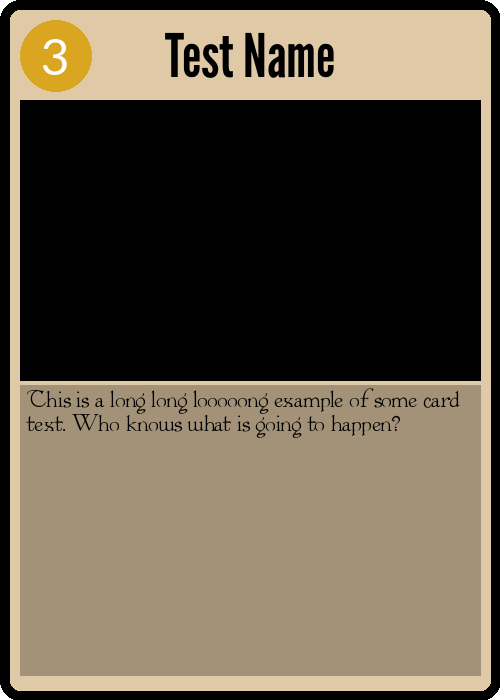
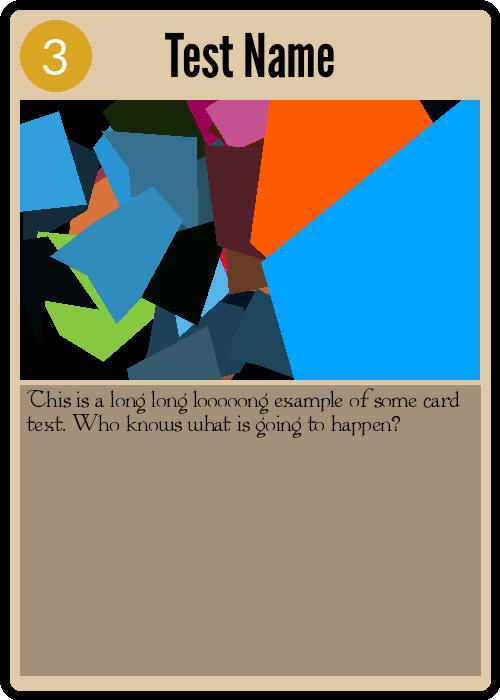
Update with fun color palettes

diff --git a/generate_cards.py b/generate_cards.py
@@ -9,6 +9,10 @@ import shutil
 import csv
 import dataclasses
 import textwrap
+import random
+import math
+import hashlib
+import colorsys
 
 CARDS_CSV_PATH = pathlib.Path("./cards.csv")
 assert CARDS_CSV_PATH.is_file()
@@ -57,17 +61,18 @@ BORDER_CORNER_RADIUS = 20
 # Title parameters
 TITLE_FONT = ImageFont.truetype(str(LEAGUE_GOTHIC_FONT_PATH), 60)
 TITLE_ANCHOR = "ma"  # Top Middle.
-TITLE_COORD = (CARD_WIDTH/2, CARD_MARGIN)
+TITLE_COORD = (int(CARD_WIDTH/2), CARD_MARGIN)
 TITLE_FONT_COLOR=BLACK
 
 # Cost parameters
-COST_WIDTH = CARD_WIDTH / 7
+COST_WIDTH = int(CARD_WIDTH / 7)
 COST_BACKGROUND_BB = [
   CARD_MARGIN, CARD_MARGIN, COST_WIDTH + CARD_MARGIN, COST_WIDTH + CARD_MARGIN]
 COST_BACKGROUND_COLOR = GOLD
 COST_FONT = ImageFont.truetype(str(LATO_FONT_PATH), 50)
 COST_ANCHOR = "mm"  # Middle
-COST_COORD = (CARD_MARGIN + COST_WIDTH / 2, CARD_MARGIN + COST_WIDTH / 2)
+COST_COORD = (int(CARD_MARGIN + COST_WIDTH / 2),
+              int(CARD_MARGIN + COST_WIDTH / 2))
 COST_FONT_COLOR = WHITE
 
 # Describes the max width of card contents
@@ -76,8 +81,8 @@ CONTENT_WIDTH = CARD_WIDTH - 2*CARD_MARGIN
 # Card image parameters
 # Width and height of card image
 CARD_IMAGE_WIDTH = CONTENT_WIDTH
-CARD_IMAGE_HEIGHT = CARD_HEIGHT * 0.4
-CARD_IMAGE_TOP = CARD_HEIGHT / 7
+CARD_IMAGE_HEIGHT = int(CARD_HEIGHT * 0.4)
+CARD_IMAGE_TOP = int(CARD_HEIGHT / 7)
 CARD_IMAGE_BOTTOM = CARD_IMAGE_TOP + CARD_IMAGE_HEIGHT
 CARD_IMAGE_BB = [
   CARD_MARGIN,
@@ -85,6 +90,16 @@ CARD_IMAGE_BB = [
   CARD_MARGIN + CONTENT_WIDTH,
   CARD_IMAGE_BOTTOM,
 ]
+
+RAND_SHAPE_MIN_RADIUS =  min(CARD_IMAGE_WIDTH, CARD_IMAGE_HEIGHT) * 0.1
+RAND_SHAPE_MAX_RADIUS =  min(CARD_IMAGE_WIDTH, CARD_IMAGE_HEIGHT) * 0.3
+# We want to generate between 3 sided and 10-sided shapes.
+RAND_MIN_POINT_GEN_STEP_RADS = 2 * math.pi / 20
+RAND_MAX_POINT_GEN_STEP_RADS = 2 * math.pi / 3
+RAND_MIN_SHAPES = 10
+RAND_MAX_SHAPES = 100
+
+
 
 # Body text
 BODY_TEXT_FONT = ImageFont.truetype(str(COLWELLA_FONT_PATH), 20)
@@ -101,8 +116,8 @@ BODY_TEXT_BG_COLOR = DARK_BEIGE
 # Estimate text size of body text
 BODY_TEXT_WIDTH = CONTENT_WIDTH - CARD_PADDING
 BODY_TEXT_HEIGHT = BODY_TEXT_BG_BOTTOM - BODY_TEXT_BG_TOP - CARD_PADDING
-BODY_TEXT_COORD = (CARD_MARGIN + CARD_PADDING * 3 / 2,
-              BODY_TEXT_BG_TOP + CARD_PADDING / 2)
+BODY_TEXT_COORD = (int(CARD_MARGIN + CARD_PADDING * 3 / 2),
+                   int(BODY_TEXT_BG_TOP + CARD_PADDING / 2))
 BODY_TEXT_ANCHOR = "la" # top left
 
 
@@ -124,9 +139,14 @@ def wrap_body_text(body_text:str)->str:
 class CardDesc:
   name: str
   cost: int
-  types: Set[str]
+  types: List[str]
   body_text: str
   flavor_text: str
+
+  def hash(self):
+    text = (f"{self.name}{self.cost}{self.types}{self.body_text}"
+            f"{self.flavor_text}")
+    return hashlib.md5(text.encode("utf-8")).hexdigest()
 
 EXPECTED_CSV_HEADER = set([
   "Name",
@@ -135,6 +155,90 @@ EXPECTED_CSV_HEADER = set([
   "Body Text",
   "Flavor Text",
 ])
+
+
+def rand_shape(x_offset: float, y_offset: float, scale:float)->List[int]:
+  """Returns the points of a shape in clockwise order centered at offset."""
+  points = []
+  angle_offset = random.random() * 2 * math.pi
+  angle = 0
+  while angle < 2*math.pi:
+    magnitude = random.uniform(
+      RAND_SHAPE_MIN_RADIUS, RAND_SHAPE_MAX_RADIUS) * scale
+    x = math.cos(angle + angle_offset) * magnitude + x_offset
+    y = math.sin(angle + angle_offset) * magnitude + y_offset
+    points.append((x, y))
+    angle += random.uniform(RAND_MIN_POINT_GEN_STEP_RADS,
+                            RAND_MAX_POINT_GEN_STEP_RADS)
+  return points
+
+@dataclasses.dataclass
+class ColorPalette:
+  # These are in 0-1
+  primary_hue: float
+  secondary_hue: float
+  alt_hues: List[float]
+
+  def primary(self)->Tuple[int, int, int]:
+    return tuple(
+      int(255*c) for c in colorsys.hsv_to_rgb(self.primary_hue, 1, 1))
+
+  def secondary(self)->Tuple[int, int, int]:
+    return tuple(
+      int(255*c) for c in colorsys.hsv_to_rgb(self.secondary_hue, 1, 1))
+
+
+def rand_color_palette()->ColorPalette:
+  primary_hue = random.random()
+  secondary_hue = (primary_hue + 0.5 + random.uniform(-0.2, 0.2)) % 1
+  alt_hues = [
+    ((primary_hue - secondary_hue)/2) % 1,
+    ((secondary_hue - primary_hue)/2) % 1,
+    random.random(), random.random(), random.random(),
+  ]
+  return ColorPalette(primary_hue, secondary_hue, alt_hues)
+
+def rand_color(palette:ColorPalette)->Tuple[int, int, int]:
+  hue = random.choices(
+    [palette.primary_hue, palette.secondary_hue] + palette.alt_hues,
+    weights=[0.5, 0.25] + [0.25/len(palette.alt_hues) for _ in palette.alt_hues]
+  )[0]
+  saturation = random.uniform(0.5, 1)
+  value = random.uniform(0, 1)
+  return tuple(int(255*c) for c in colorsys.hsv_to_rgb(hue, saturation, value))
+
+
+def generate_card_art(desc:CardDesc)->Image:
+  # Seed random number gen with deterministic hash of card description. This
+  # gives us the same image if we run the generation script twice.
+  random.seed(desc.hash())
+
+  # We generate an internal image and paste it into the card.
+  img = Image.new(mode="RGBA", size=(CARD_IMAGE_WIDTH, CARD_IMAGE_HEIGHT))
+  draw = ImageDraw.Draw(img)
+
+  draw.rectangle([0, 0, CARD_IMAGE_WIDTH, CARD_IMAGE_HEIGHT],
+                 fill=BLACK)
+
+  num_shapes = random.randint(RAND_MIN_SHAPES, RAND_MAX_SHAPES)
+  color_palette = rand_color_palette()
+  for shape_idx in range(num_shapes):
+    offset_x = random.uniform(0, CARD_IMAGE_WIDTH)
+    offset_y = random.uniform(0, CARD_IMAGE_HEIGHT)
+    shape = rand_shape(offset_x, offset_y, scale=1)
+    draw.polygon(shape, fill=rand_color(color_palette))
+  # Draw a big secondary
+  offset_x = random.uniform(CARD_IMAGE_WIDTH*0.1, CARD_IMAGE_WIDTH*0.9)
+  offset_y = random.uniform(CARD_IMAGE_HEIGHT*0.1, CARD_IMAGE_HEIGHT*0.9)
+  shape = rand_shape(offset_x, offset_y, scale=3)
+  draw.polygon(shape, fill=color_palette.secondary())
+
+  offset_x = random.uniform(CARD_IMAGE_WIDTH*0.1, CARD_IMAGE_WIDTH*0.9)
+  offset_y = random.uniform(CARD_IMAGE_HEIGHT*0.1, CARD_IMAGE_HEIGHT*0.9)
+  shape = rand_shape(offset_x, offset_y, scale=3)
+  draw.polygon(shape, fill=color_palette.primary())
+
+  return img
 
 def generate_card(desc:CardDesc, output_path:pathlib.Path):
   assert not output_path.exists(), f"{output_path} already exists"
@@ -171,10 +275,8 @@ def generate_card(desc:CardDesc, output_path:pathlib.Path):
     anchor=COST_ANCHOR)
 
   # Card image placeholder.
-  # TODO replace this with some filler image.
-  draw.rectangle(
-    CARD_IMAGE_BB,
-    fill=BLACK)
+  card_art = generate_card_art(desc)
+  img.paste(card_art, CARD_IMAGE_BB[:2])
 
   # Body text
   draw.rectangle(
@@ -199,7 +301,7 @@ def to_card_desc(attr:Dict[str, Any]):
   return CardDesc(
     name=attr["Name"],
     cost=int(attr["Cost"]),
-    types=set(attr["Types"].split(",")),
+    types=list(attr["Types"].split(",")),
     body_text=attr["Body Text"],
     flavor_text=attr["Flavor Text"],
   )
